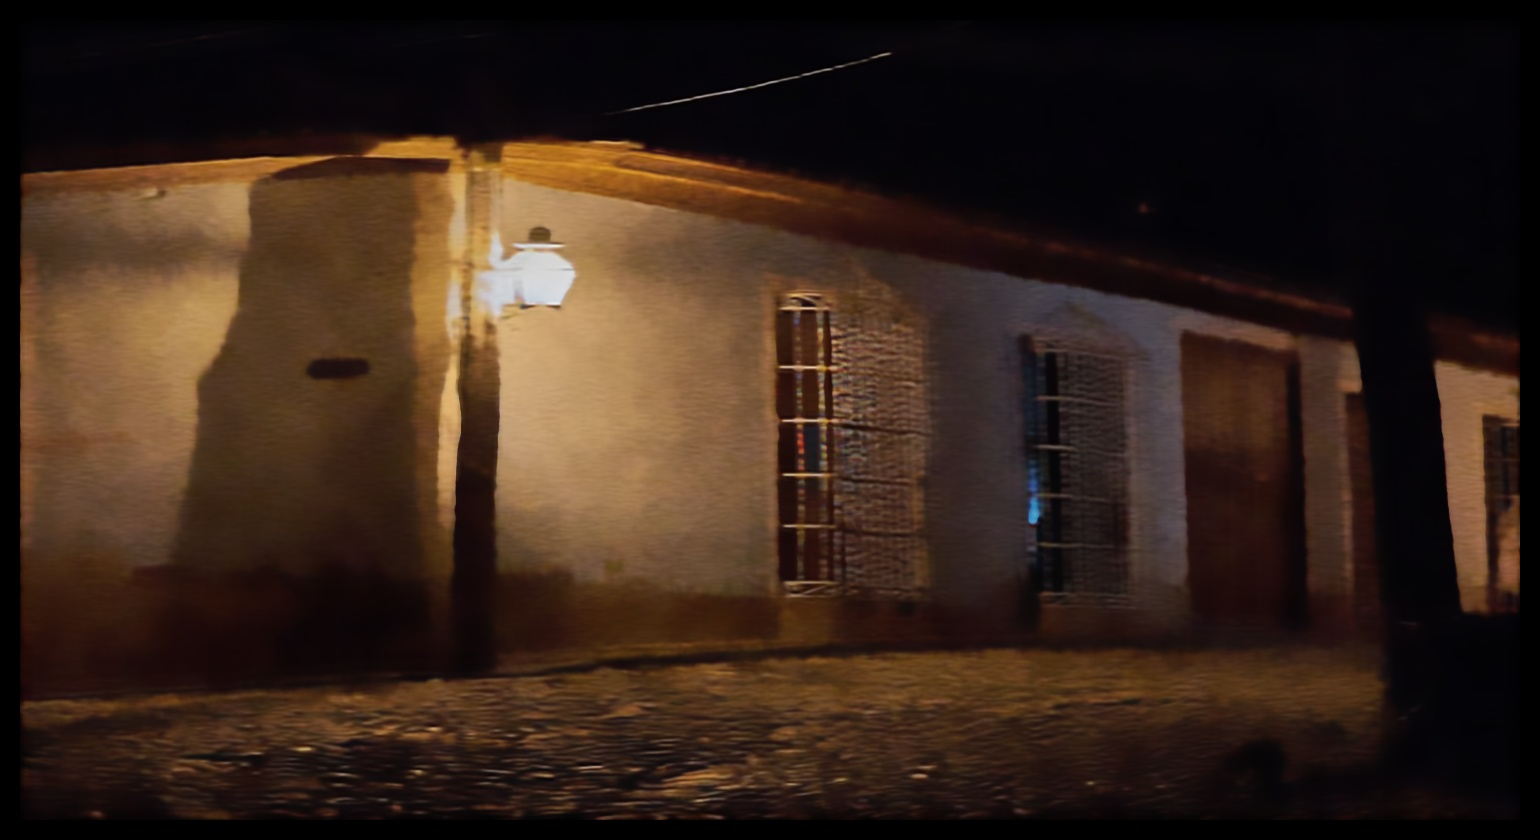
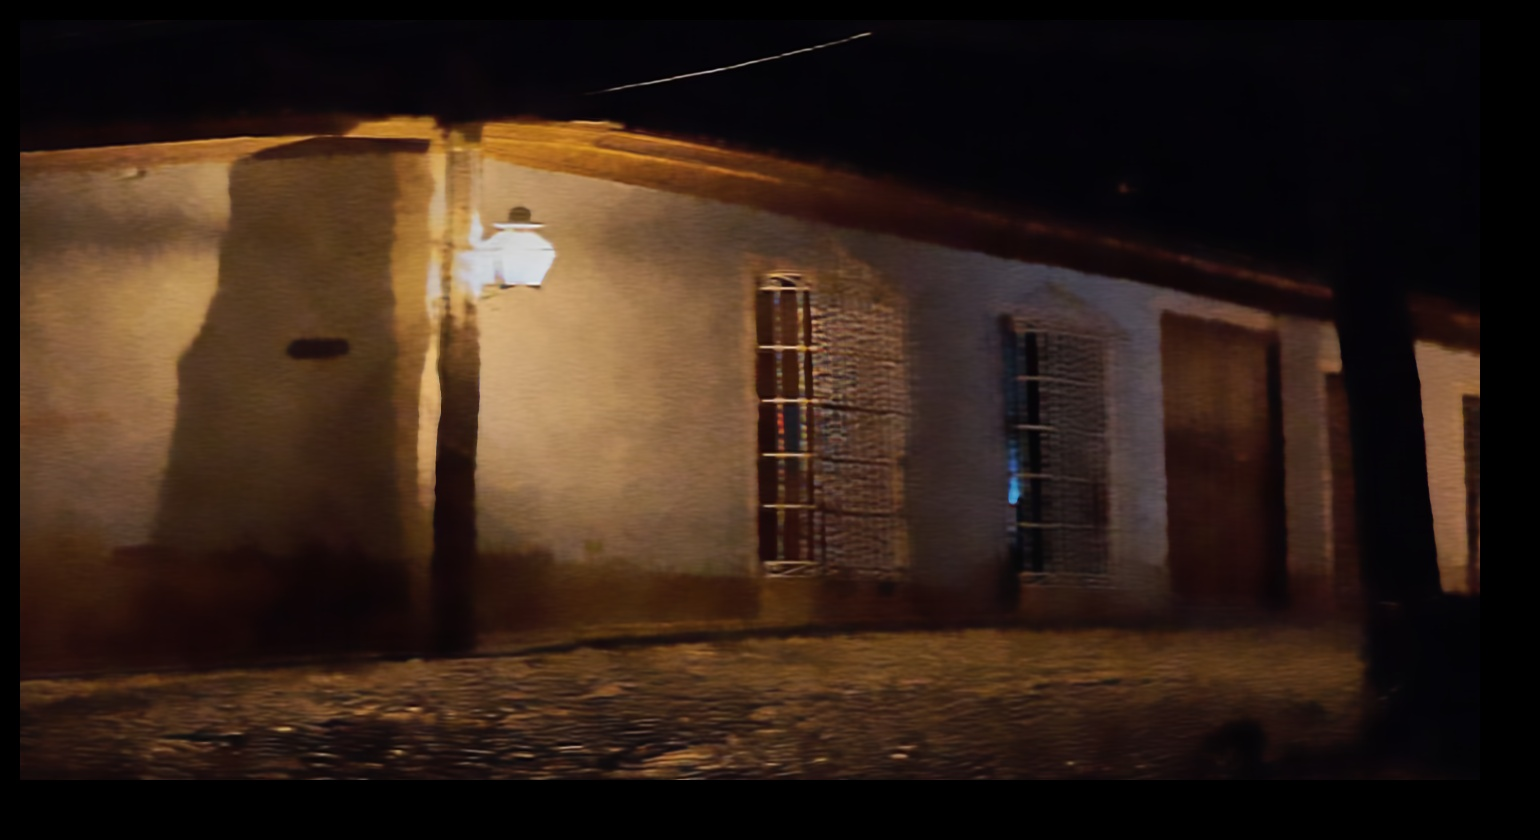
fix: add copy border

diff --git a/taichi_algorithm/bench_case/taichi_nlmean.py b/taichi_algorithm/bench_case/taichi_nlmean.py
@@ -40,7 +40,6 @@ def nlmean(img_pad: img2d, img_dest: img2d, halfKernelSz: ti.i32, halfSearchSz: 
         elif j < borderSz or j >= cols - borderSz:
             pass
         else:
-            pixel = img_pad[i, j].cast(ti.f32)
             newPixel = ti.math.vec3(0.0, 0.0, 0.0)
             sumw = ti.math.vec3(0.0, 0.0, 0.0)
 
@@ -61,9 +60,31 @@ def nlmean(img_pad: img2d, img_dest: img2d, halfKernelSz: ti.i32, halfSearchSz: 
                     sumw += weight
             img_dest[i, j] = (newPixel / sumw).cast(ti.u8)
            
+# img pad with copy border
 @ti.kernel
-def copyBorder():
-    pass
+def copyBorder(img_src: img2d, img_pad: img2d, top: ti.int32, down: ti.int32, left: ti.int32, right: ti.int32):
+    rows = img_src.shape[0]
+    cols = img_src.shape[1]
+    # copy major
+    for i, j in img_src:
+        img_pad[i + top, j + left] = img_src[i, j]
+    # pad left
+    for j in range(0, left):
+        for i in range(top, top + rows):
+            img_pad[i, j] = img_src[i, 0]
+    # pad right 
+    for j in range(left + cols - 1, left + cols + right):
+        for i in range(top, top + rows):
+            img_pad[i, j] = img_src[i, left + cols - 1]
+    # pad top
+    for i in range(0, top):
+        for j in range(0, left + cols + right):
+            img_pad[i, j] = img_pad[top, j]
+    # pad down
+    for i in range(top + rows, top + rows + down):
+        for j in range(0, left + cols + right):
+            img_pad[i, j] = img_pad[top + rows - 1, j]
+    
         
 if __name__ == "__main__":
     if run_type == RUN_TYPE.RUN_DIRECT:
@@ -71,11 +92,18 @@ if __name__ == "__main__":
         halfKernelSz = 5
         halfSearchSz = 15
         h = 20
-        img = cv.copyMakeBorder(img, halfKernelSz + halfSearchSz, halfSearchSz + halfKernelSz, halfSearchSz + halfKernelSz, halfSearchSz + halfKernelSz, 0)
-        img_dest = ti.ndarray(dtype=ti.types.vector(3, ti.u8), shape=(img.shape[0], img.shape[1]))
+        img_dest = ti.ndarray(dtype=ti.types.vector(3, ti.u8), shape=(img.shape[0] + 2 * (halfSearchSz + halfKernelSz), img.shape[1] + 2 * (halfKernelSz + halfSearchSz)))
+        img_pad = ti.ndarray(dtype=ti.types.vector(3, ti.u8), shape=(img.shape[0] + 2 * (halfSearchSz + halfKernelSz), img.shape[1] + 2 * (halfKernelSz + halfSearchSz)))
+        padsize = halfSearchSz + halfKernelSz
         start = time.time()
+        copyBorder(img, img_pad, padsize, padsize, padsize, padsize)
         nlmean(img, img_dest, halfKernelSz, halfSearchSz, h)
         print(f"nlmean imge process %s second" % (time.time() - start))
 
         cv.imwrite("./house_nlm.jpg", img_dest.to_numpy())
+    elif run_type == RUN_TYPE.COMPILE:
+        mod = ti.aot.Module(ti.vulkan, caps=[ti.DeviceCapability.spirv_has_int8])
+        mod.add_kernel(copyBorder)
+        mod.add_kernel(nlmean)
+        mod.archive("taichi_nlm.tcm")
 
